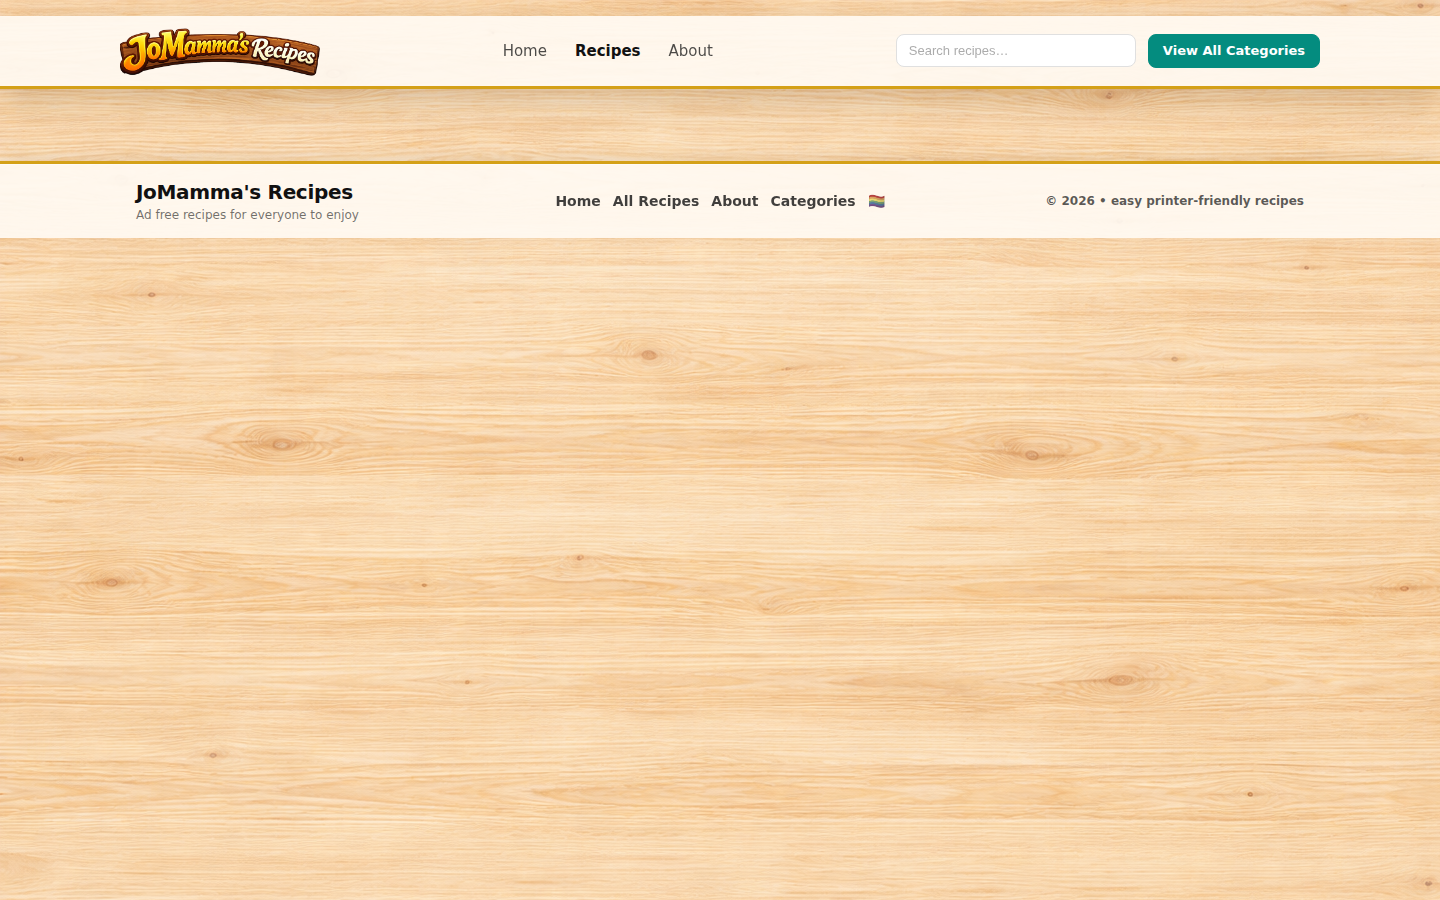
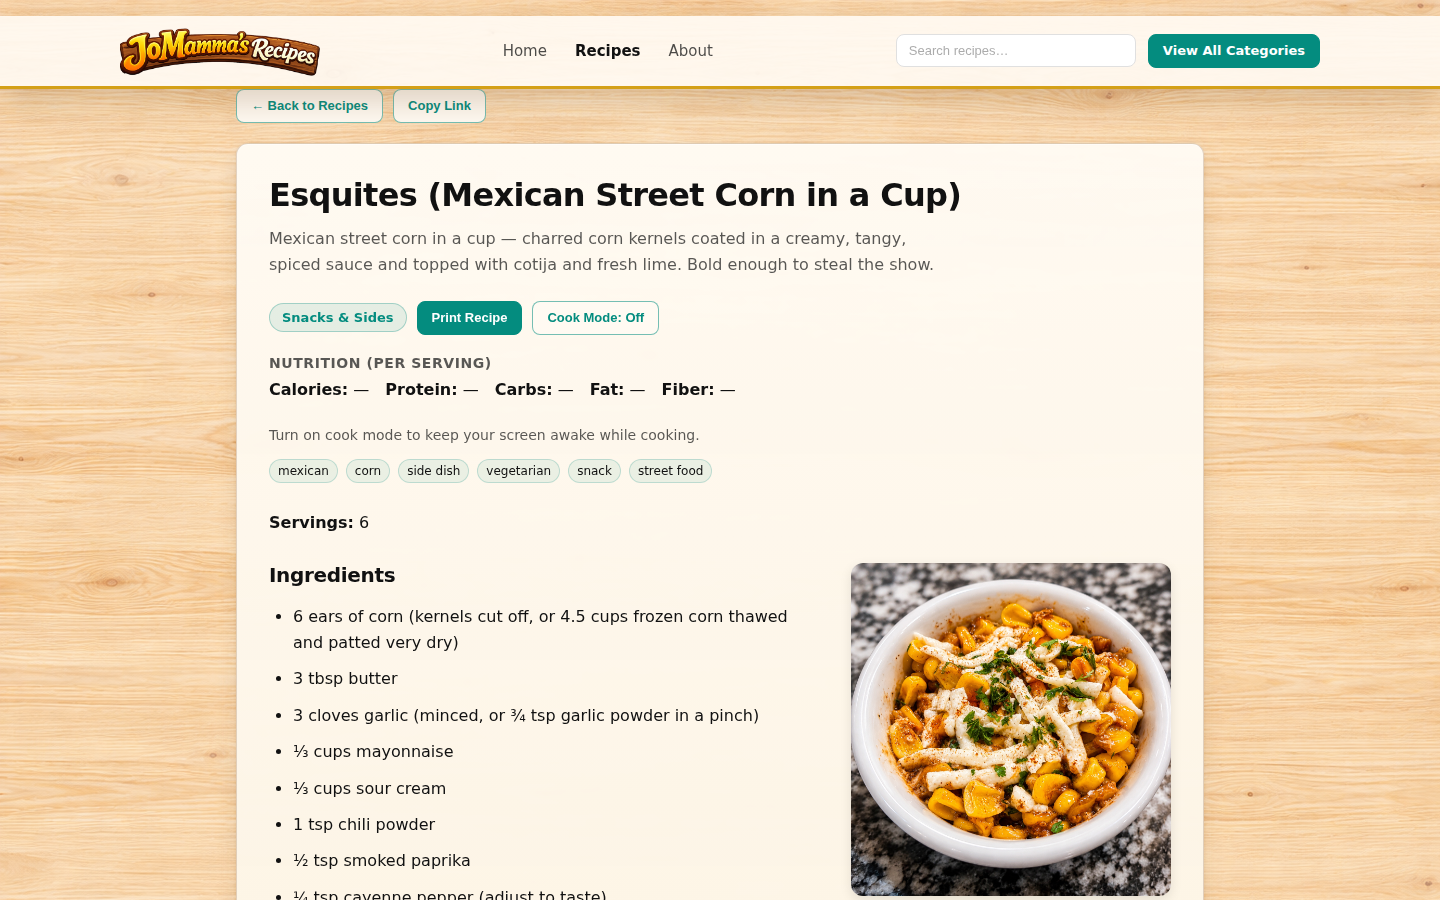
Fix recipe detail screenshots and switch to viewport-only captures
- serve.json disables cleanUrls: serve was 301-redirecting
  /recipe-detail.html?id=... to /recipe-detail, dropping the query
  string the page needs to look up which recipe to render. This left
  the detail pages blank in screenshots.
- screenshots.spec.js now captures the viewport instead of the full
  scrollable page.

https://claude.ai/code/session_018cb93kQnJDZzajv8NVcpvG

diff --git a/tests/screenshots.spec.js b/tests/screenshots.spec.js
@@ -14,7 +14,7 @@ const SCREENSHOT_DIR = path.join(__dirname, '..', 'screenshots');
 async function shoot(page, projectName, name) {
   const dir = path.join(SCREENSHOT_DIR, projectName);
   fs.mkdirSync(dir, { recursive: true });
-  await page.screenshot({ path: path.join(dir, `${name}.png`), fullPage: true });
+  await page.screenshot({ path: path.join(dir, `${name}.png`) });
 }
 
 test.describe('Core pages', () => {
